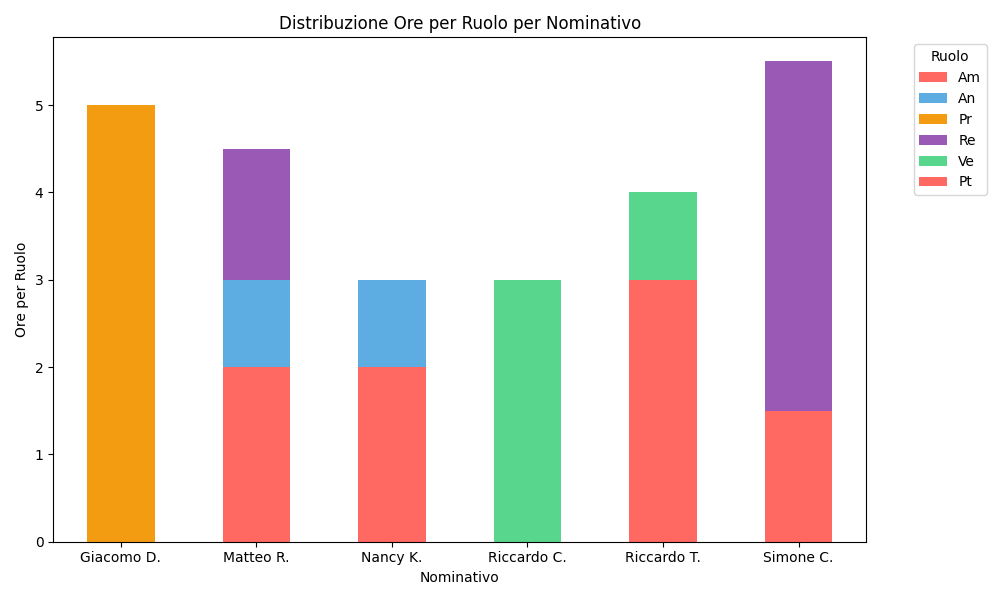
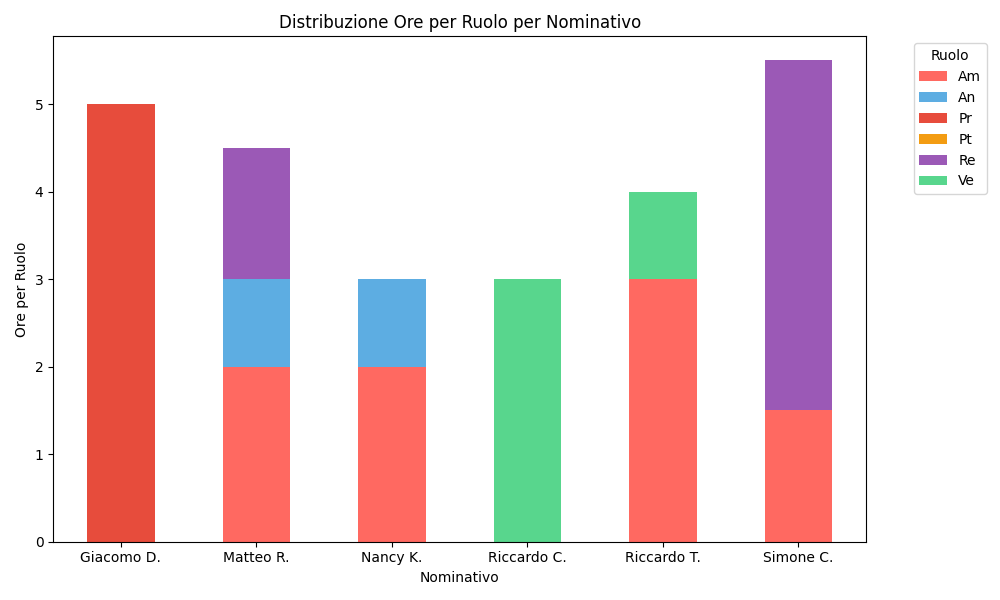
Fix to colors in "preventivo" python script

diff --git a/src/3_PB/PianoDiProgetto/timeresource_sheets_downloader.py b/src/3_PB/PianoDiProgetto/timeresource_sheets_downloader.py
@@ -215,16 +215,16 @@ for sprint_key in sprints:
     time_values = [
         tot_ore_amministratore,
         tot_ore_analista,
-        tot_ore_progettista,
         tot_ore_programmatore,
+        tot_ore_progettista,
         tot_ore_responsabile,
         tot_ore_verificatore,
     ]
     role_values = [
         AMMINISTRATORE,
         ANALISTA,
-        PROGETTISTA,
         PROGRAMMATORE,
+        PROGETTISTA,
         RESPONSABILE,
         VERIFICATORE,
     ]
@@ -254,10 +254,16 @@ for sprint_key in sprints:
     rendicontazione_ore_wo_totale_persona = rendicontazione_ore.drop(
         "Totale per persona", axis=1, errors="ignore"
     )
+    rendicontazione_ore_wo_totale_persona = (
+        rendicontazione_ore_wo_totale_persona.reindex(
+            columns=["Nominativo", "Am", "An", "Pr", "Pt", "Re", "Ve"]
+        )
+    )
     rendicontazione_ore_wo_totale_persona = rendicontazione_ore_wo_totale_persona[
         rendicontazione_ore_wo_totale_persona["Nominativo"] != "Totale per ruolo"
     ]
 
+    role_colors = ["#FF6961", "#5DADE2", "#E74C3C", "#F39C12", "#9B59B6", "#58D68D"]
     # Plot a bar chart with stacked bars for each Nominativo
     ax = rendicontazione_ore_wo_totale_persona.set_index("Nominativo").plot(
         kind="bar", stacked=True, color=role_colors, figsize=(10, 6)
